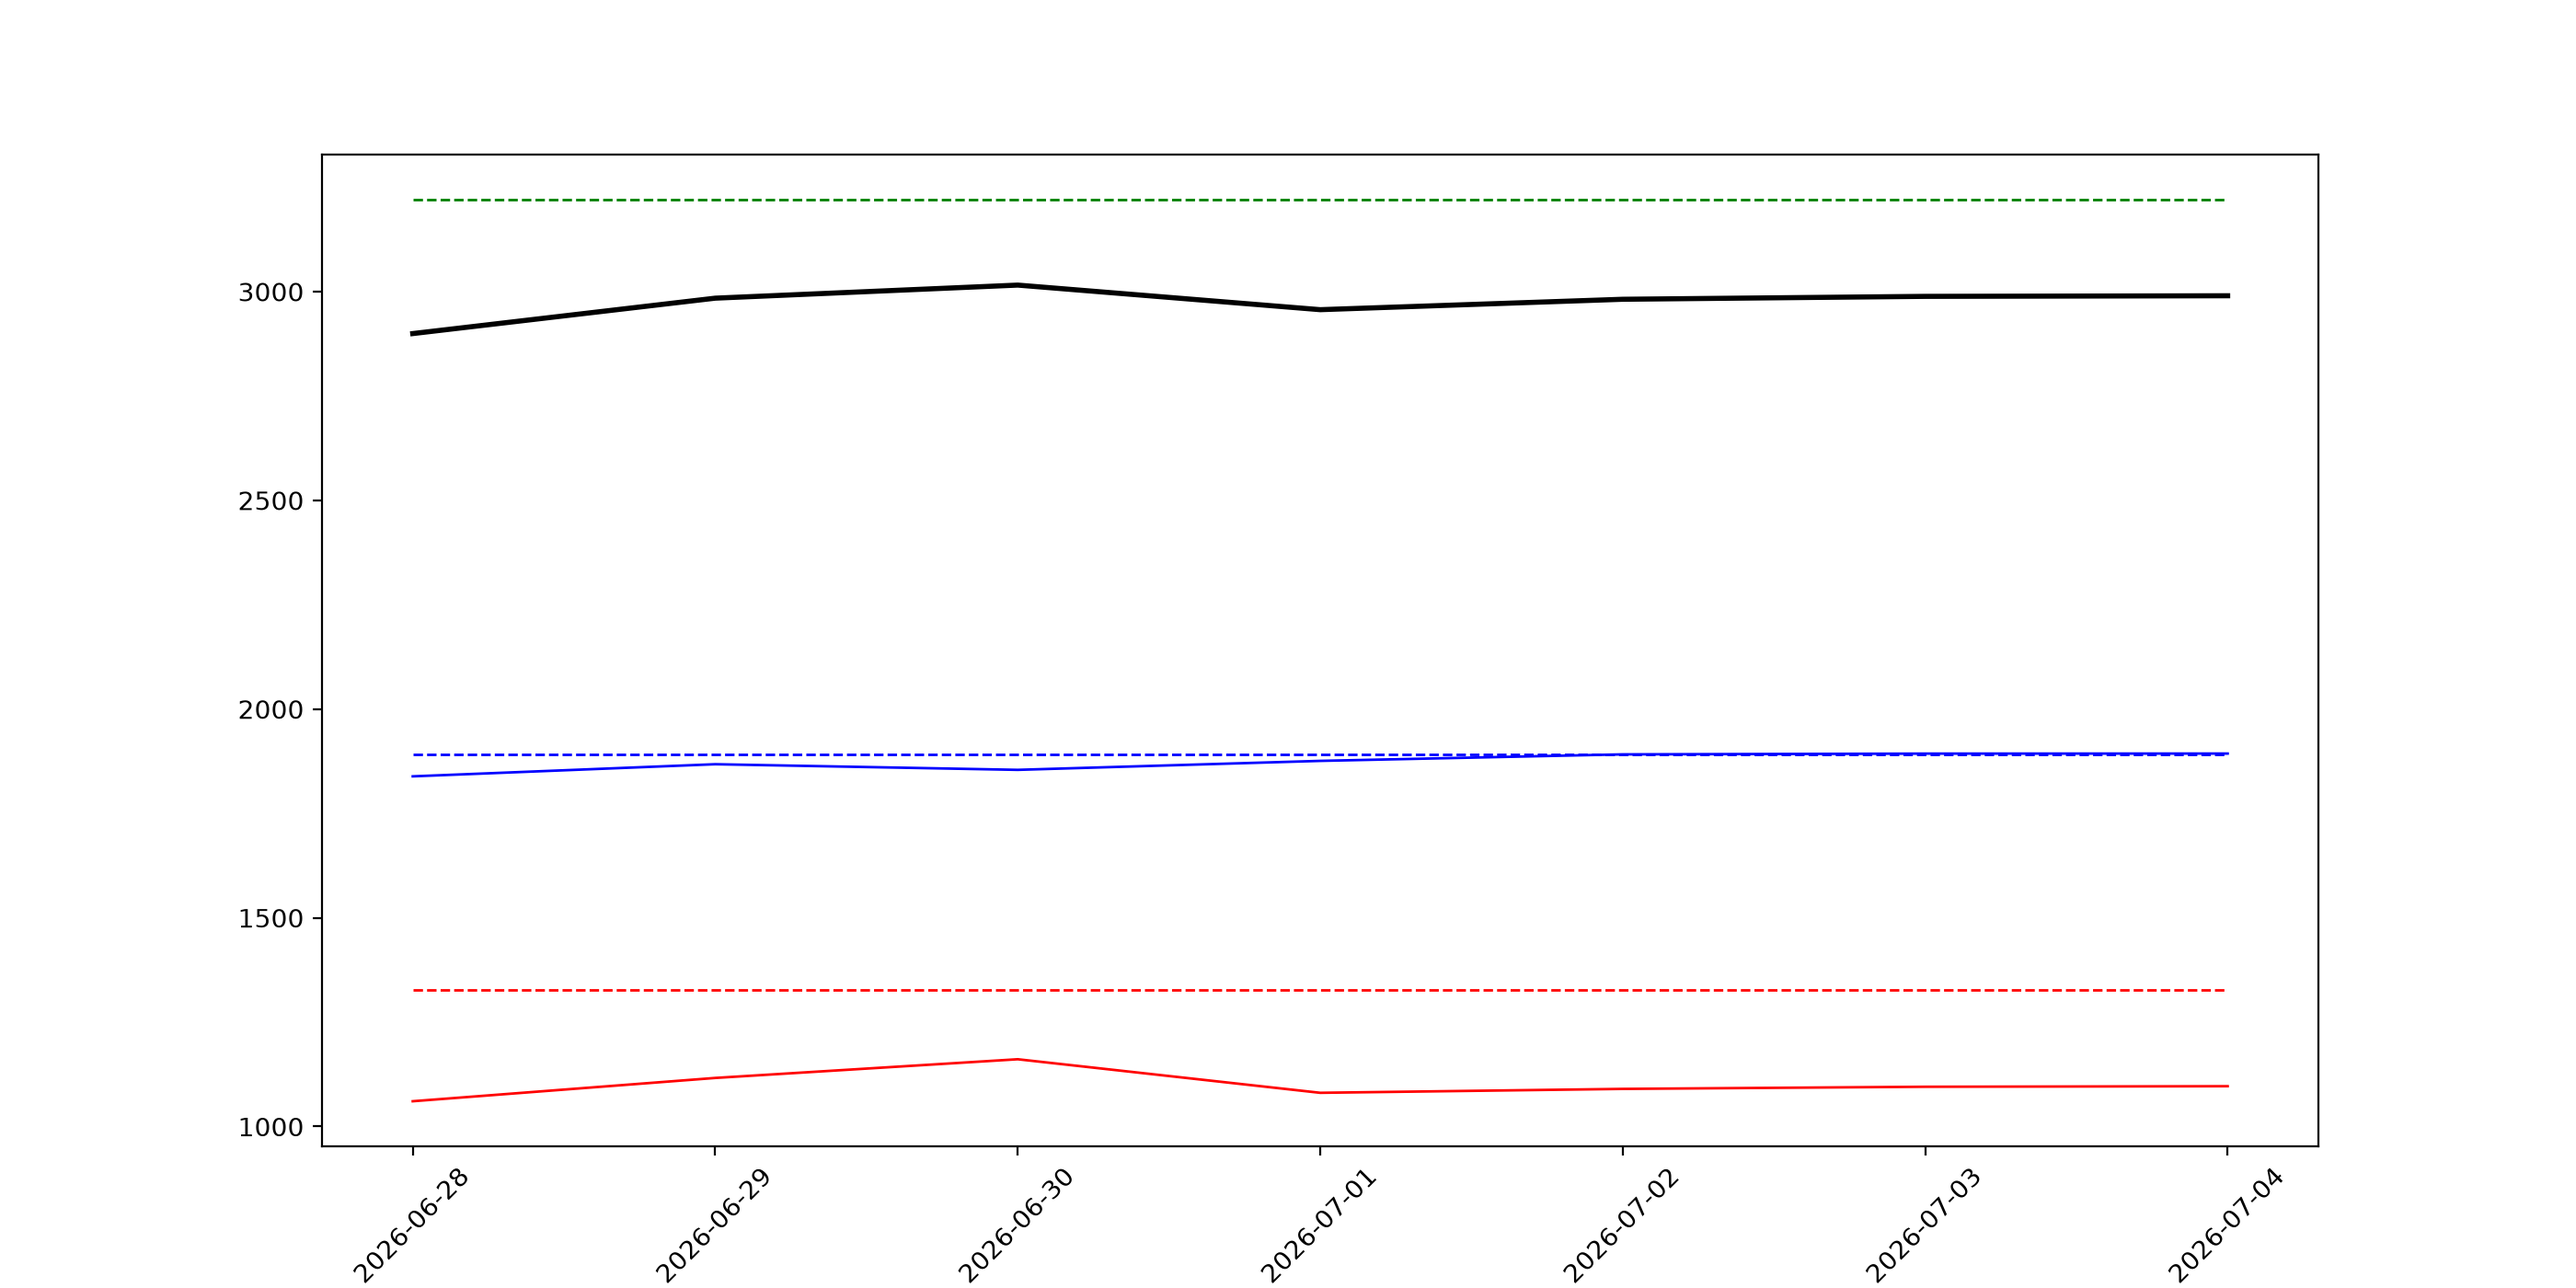
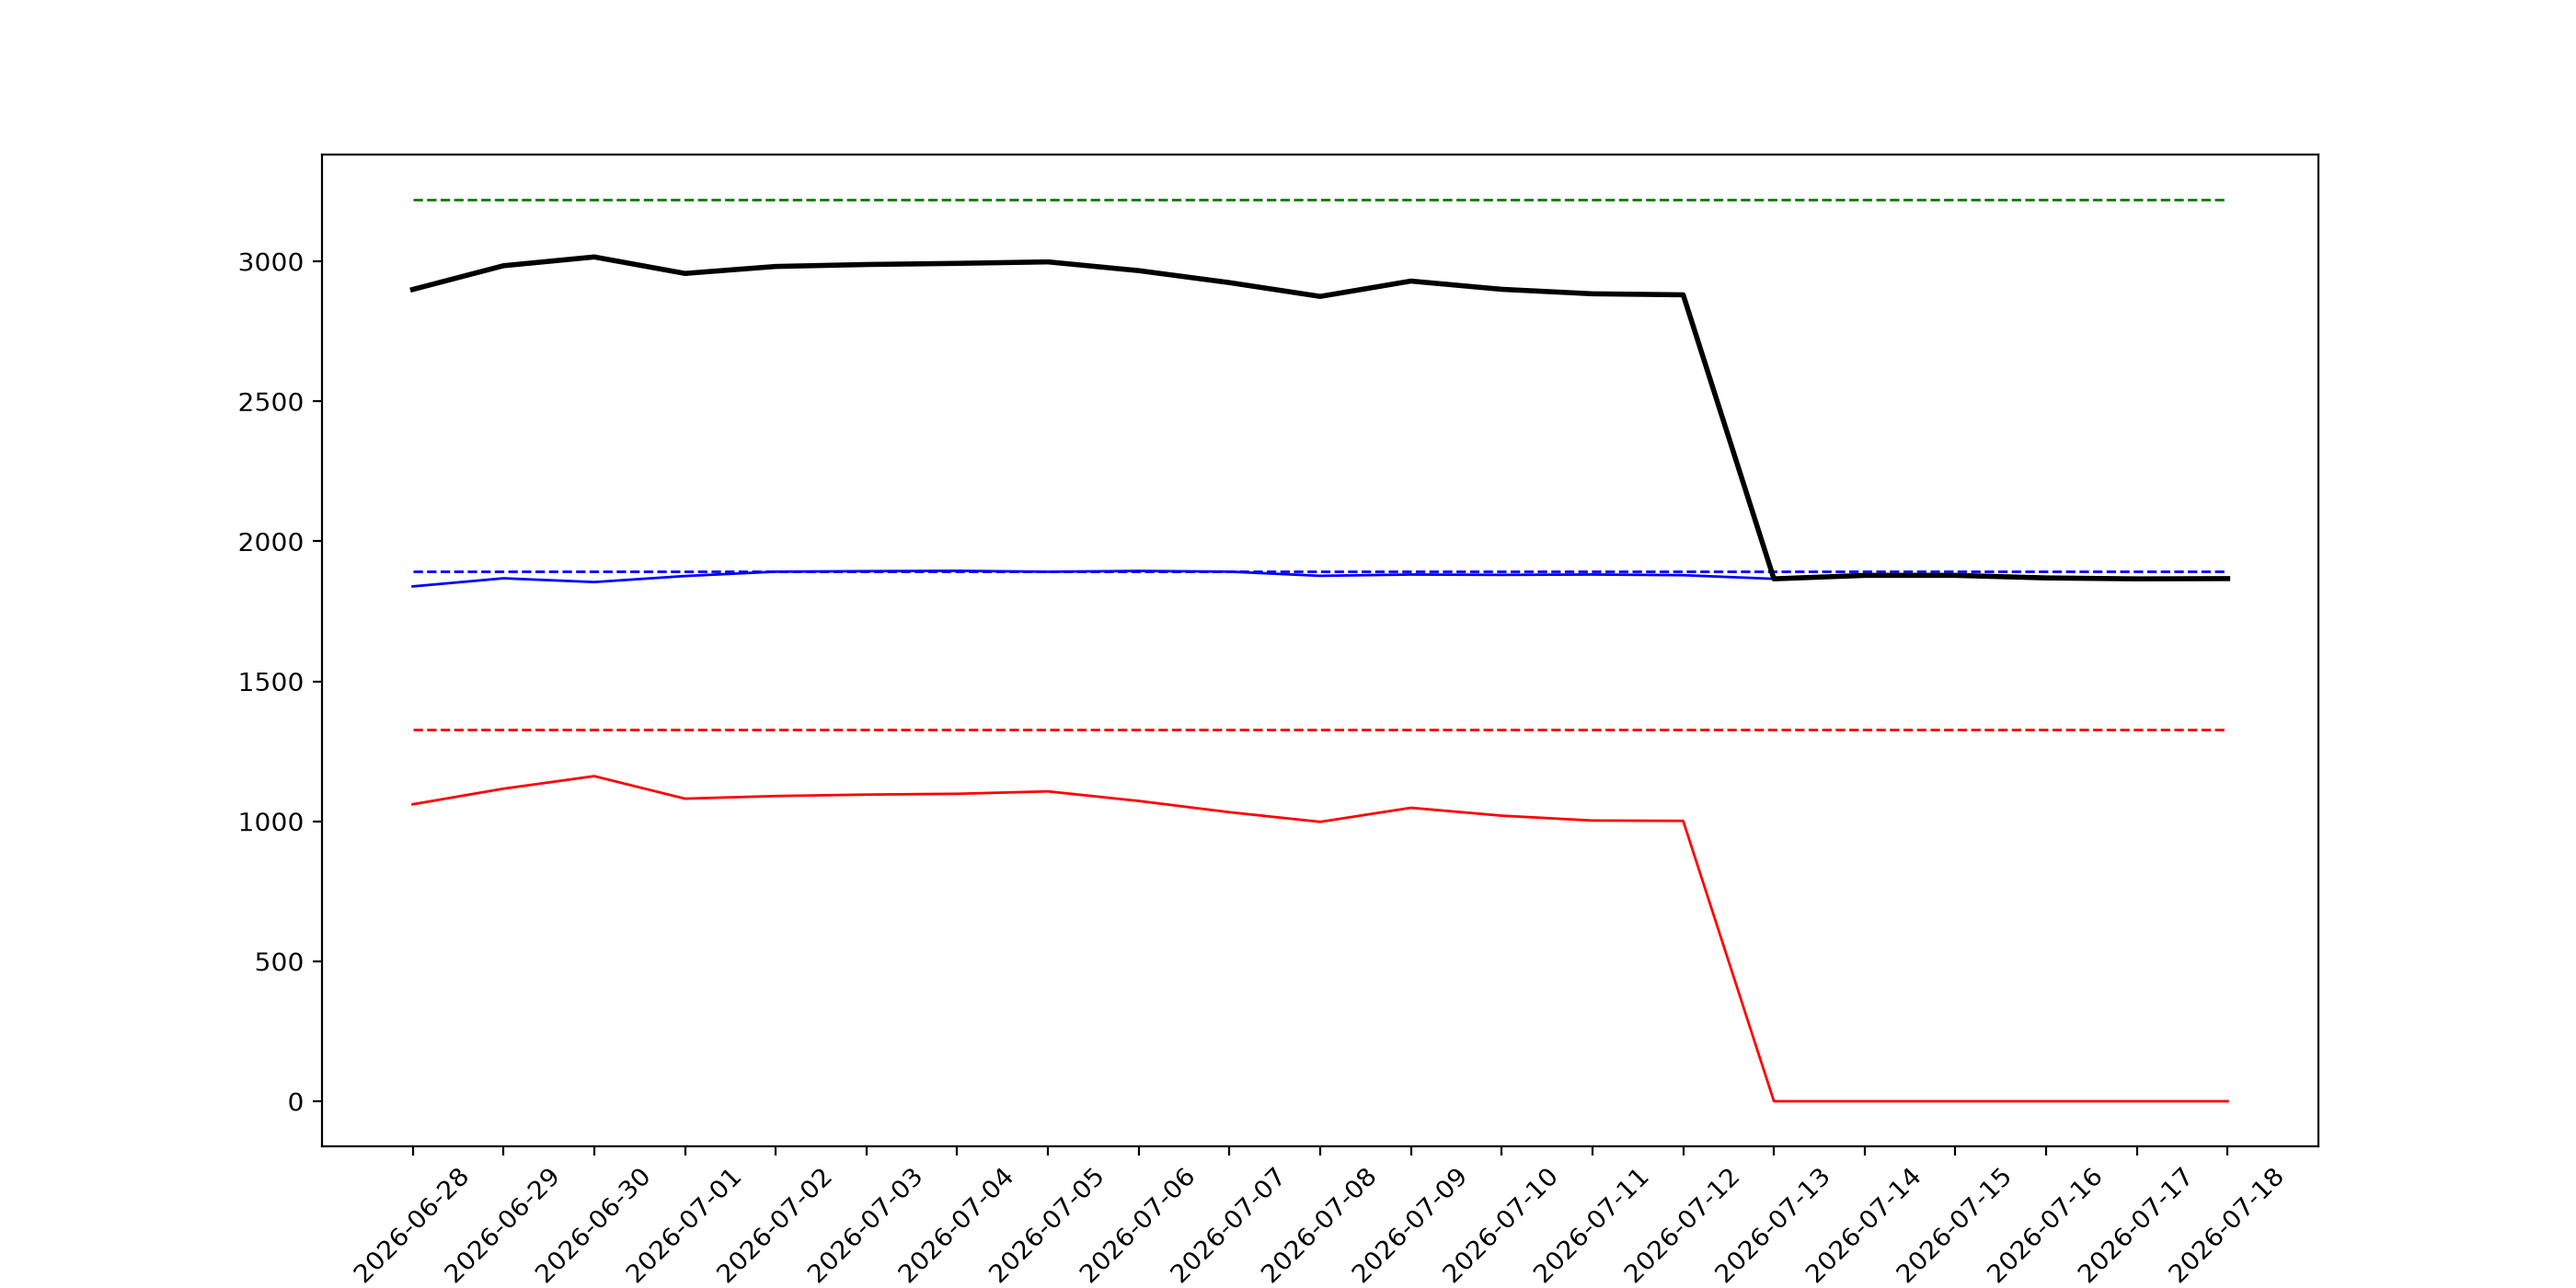
fix gitignore

diff --git a/meteora/rpc.py b/meteora/rpc.py
@@ -413,7 +413,13 @@ class LbPair:
         return array.bins[index]
     
     def get_bins(self, lower_bin_id: int, upper_bin_id: int) -> list[Bin]:
-        pass
+        list_of_bins = []
+
+        for i in range(lower_bin_id, upper_bin_id + 1):
+            bin = self.get_bin(i)
+            list_of_bins.append(bin)
+        
+        return list_of_bins
 
     
     def get_bin_arrays(self, lower_bin_id: int, upper_bin_id: int):

diff --git a/tests/test_rpc.py b/tests/test_rpc.py
@@ -88,5 +88,14 @@ def test_8_lb_pair_get_bin():
     print("pool.get_bin(pool.active_bin): ", bin)
 
     assert isinstance(bin, Bin)
+
+def test_9_lb_pair_get_bins():
+    rpc = MeteoraRPC(URL)
+    pool = rpc.get_lb_pair("AcQPrTHx3ggWau1yU1fe5mQ89HeqPTsEoWC7ejL67wfd")
+    bin = pool.get_bins(100, 120)
+
+    print("pool.get_bins(100, 120)): ", bin)
+
+    assert isinstance(bin, list)
     
     
